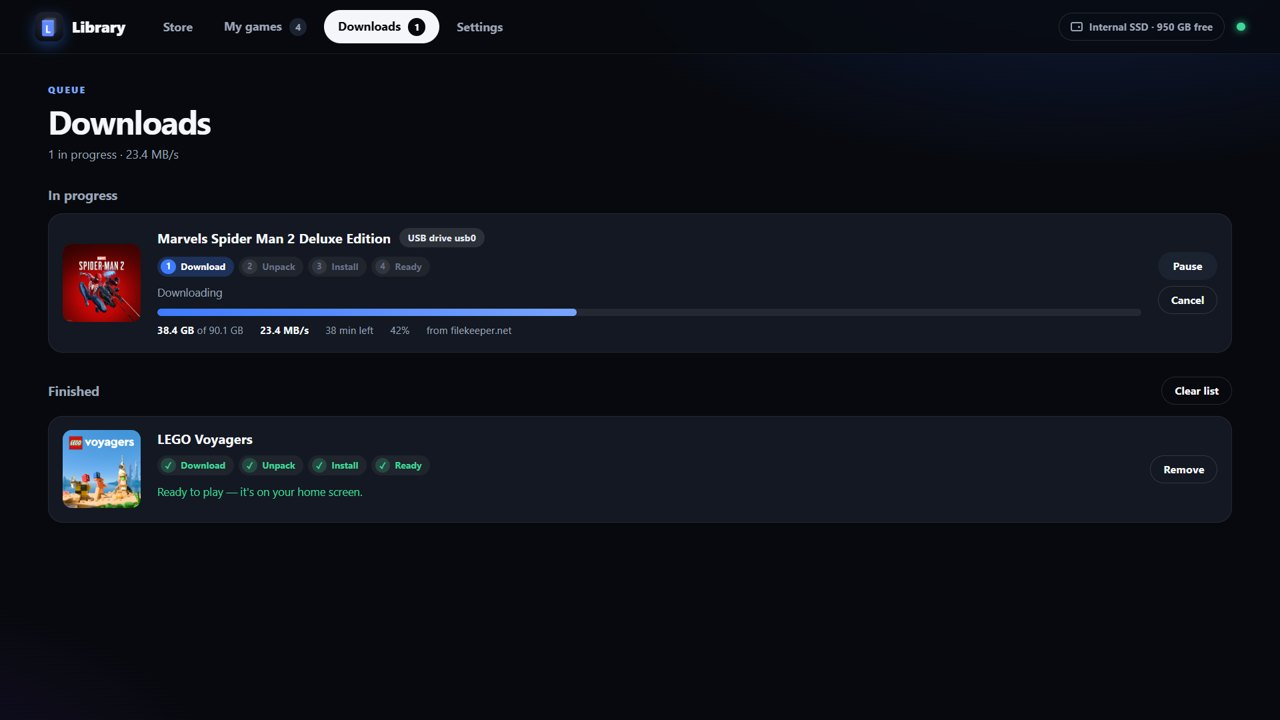
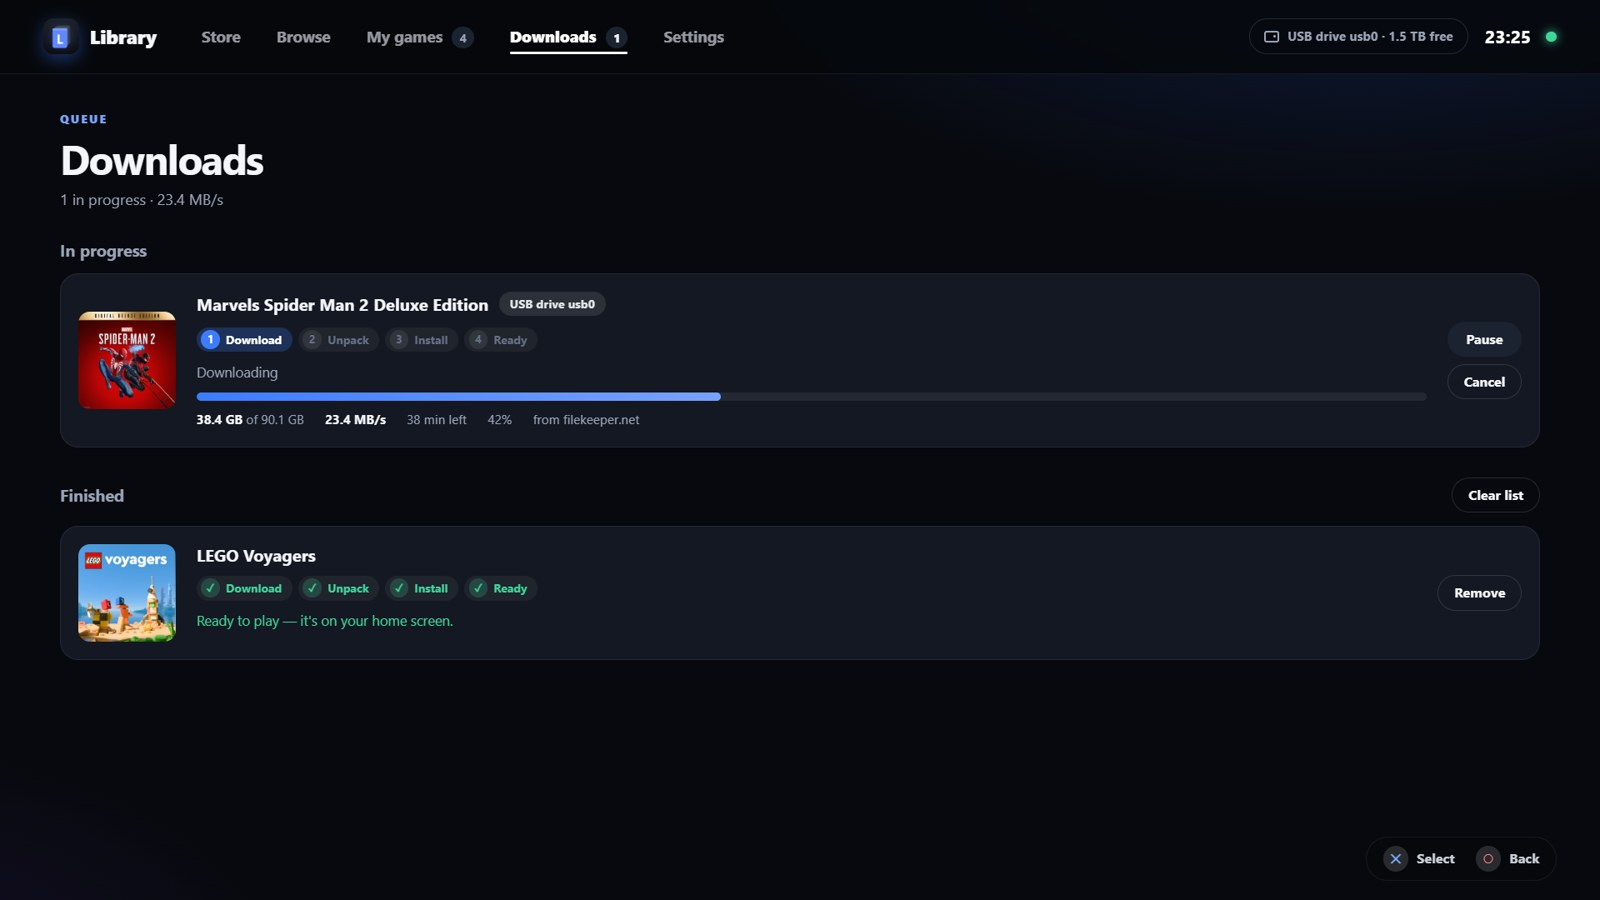
Console-style UI and live screenshots

diff --git a/README.md b/README.md
@@ -7,6 +7,7 @@
 ## Features
 
 - **One payload.** `ps5-library.elf` adds a **PS5 Library** tile to your home screen. The tile opens the library in the PS5 browser.
+- **Feels like the console.** The game you select fills the screen, rows of games sit underneath, and every game has a full-screen page.
 - **One button.** The console downloads, unpacks and installs the game. When it's done, the game is on your home screen.
 - **Internal SSD or USB.** Pick a drive per game, or set a default. Games in exFAT/FFPKG format run from that drive through ShadowMountPlus. PKG games go through the system installer.
 - **Downloads resume** after a pause, a dropped connection or a console restart.
@@ -59,9 +60,11 @@ PS5 Library does not include, host or link to any games. It shows whatever catal
 
 ## Screenshots
 
-| Game page | Downloads |
+![Game page](docs/game.jpg)
+
+| Browse | Downloads |
 | --- | --- |
-| ![Game page](docs/game.jpg) | ![Downloads](docs/downloads.jpg) |
+| ![Browse](docs/browse.jpg) | ![Downloads](docs/downloads.jpg) |
 
 ## Troubleshooting
 
